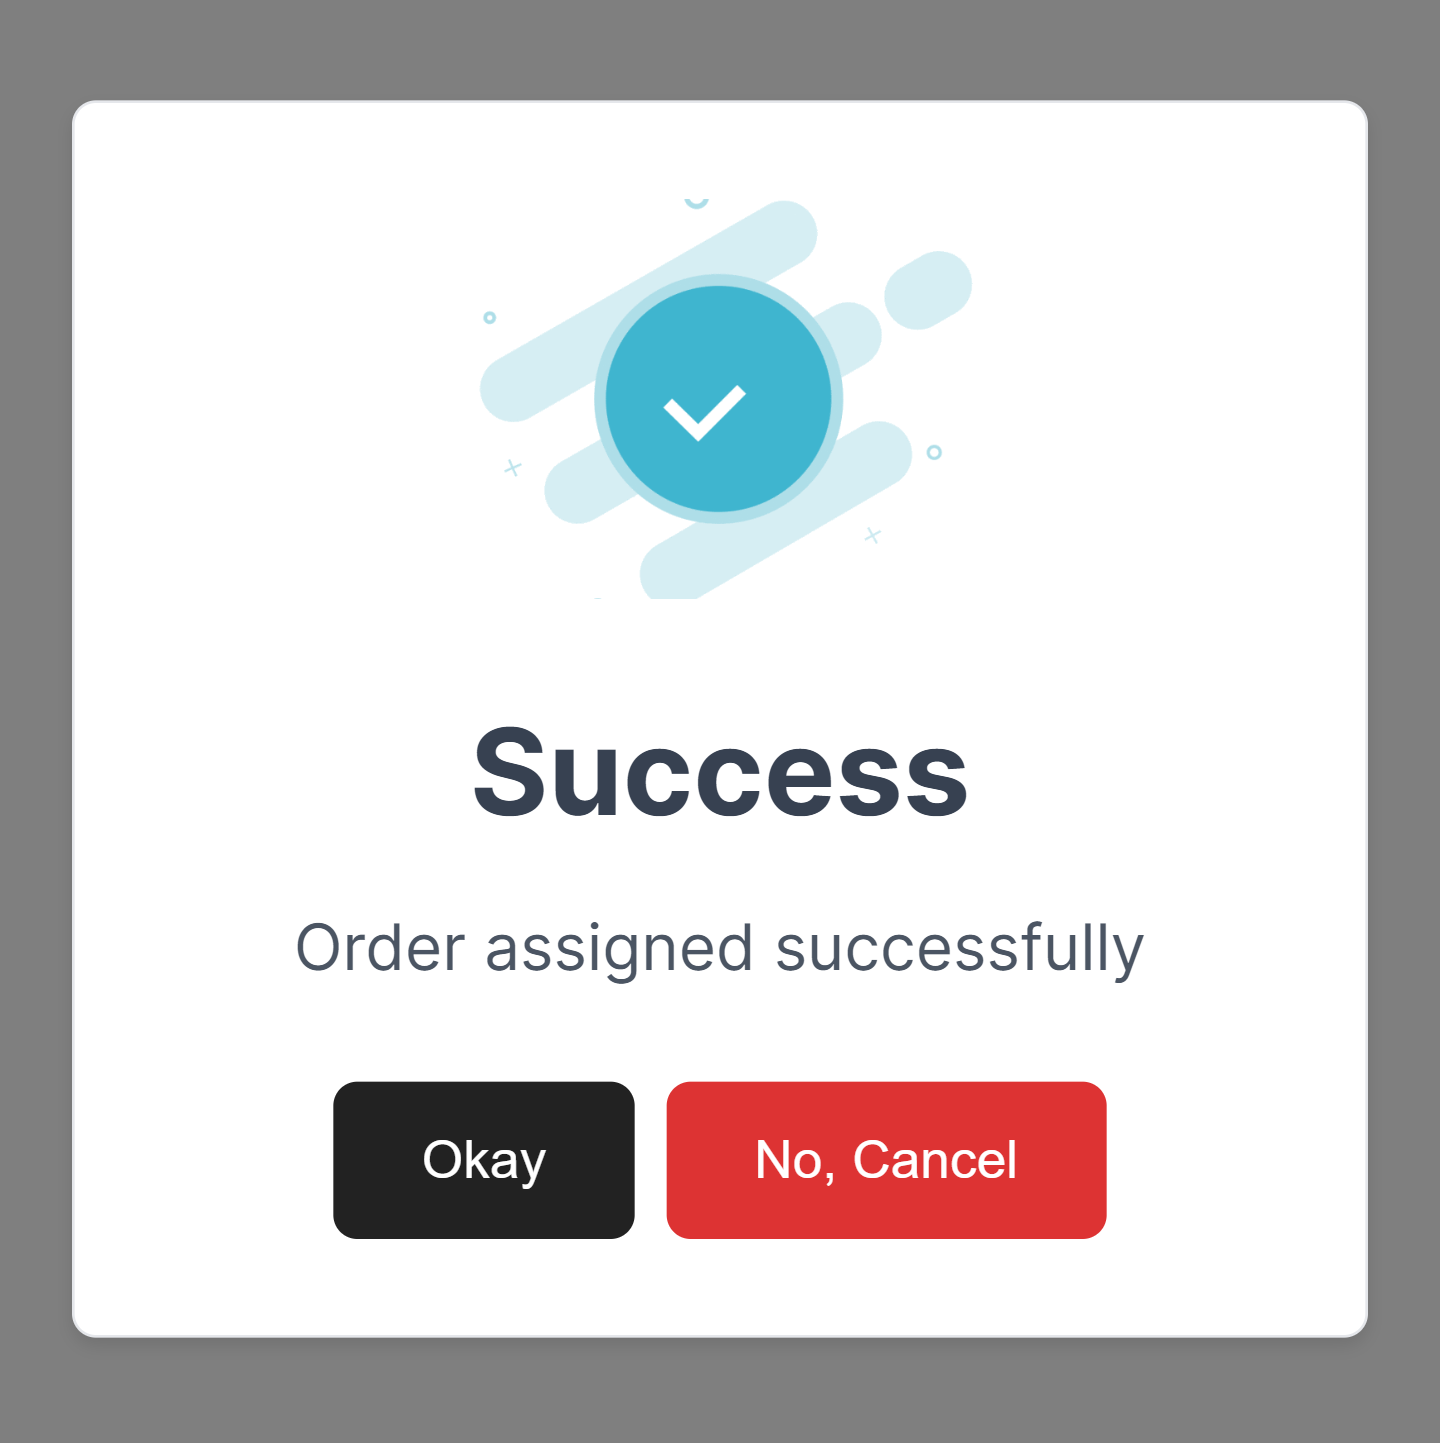
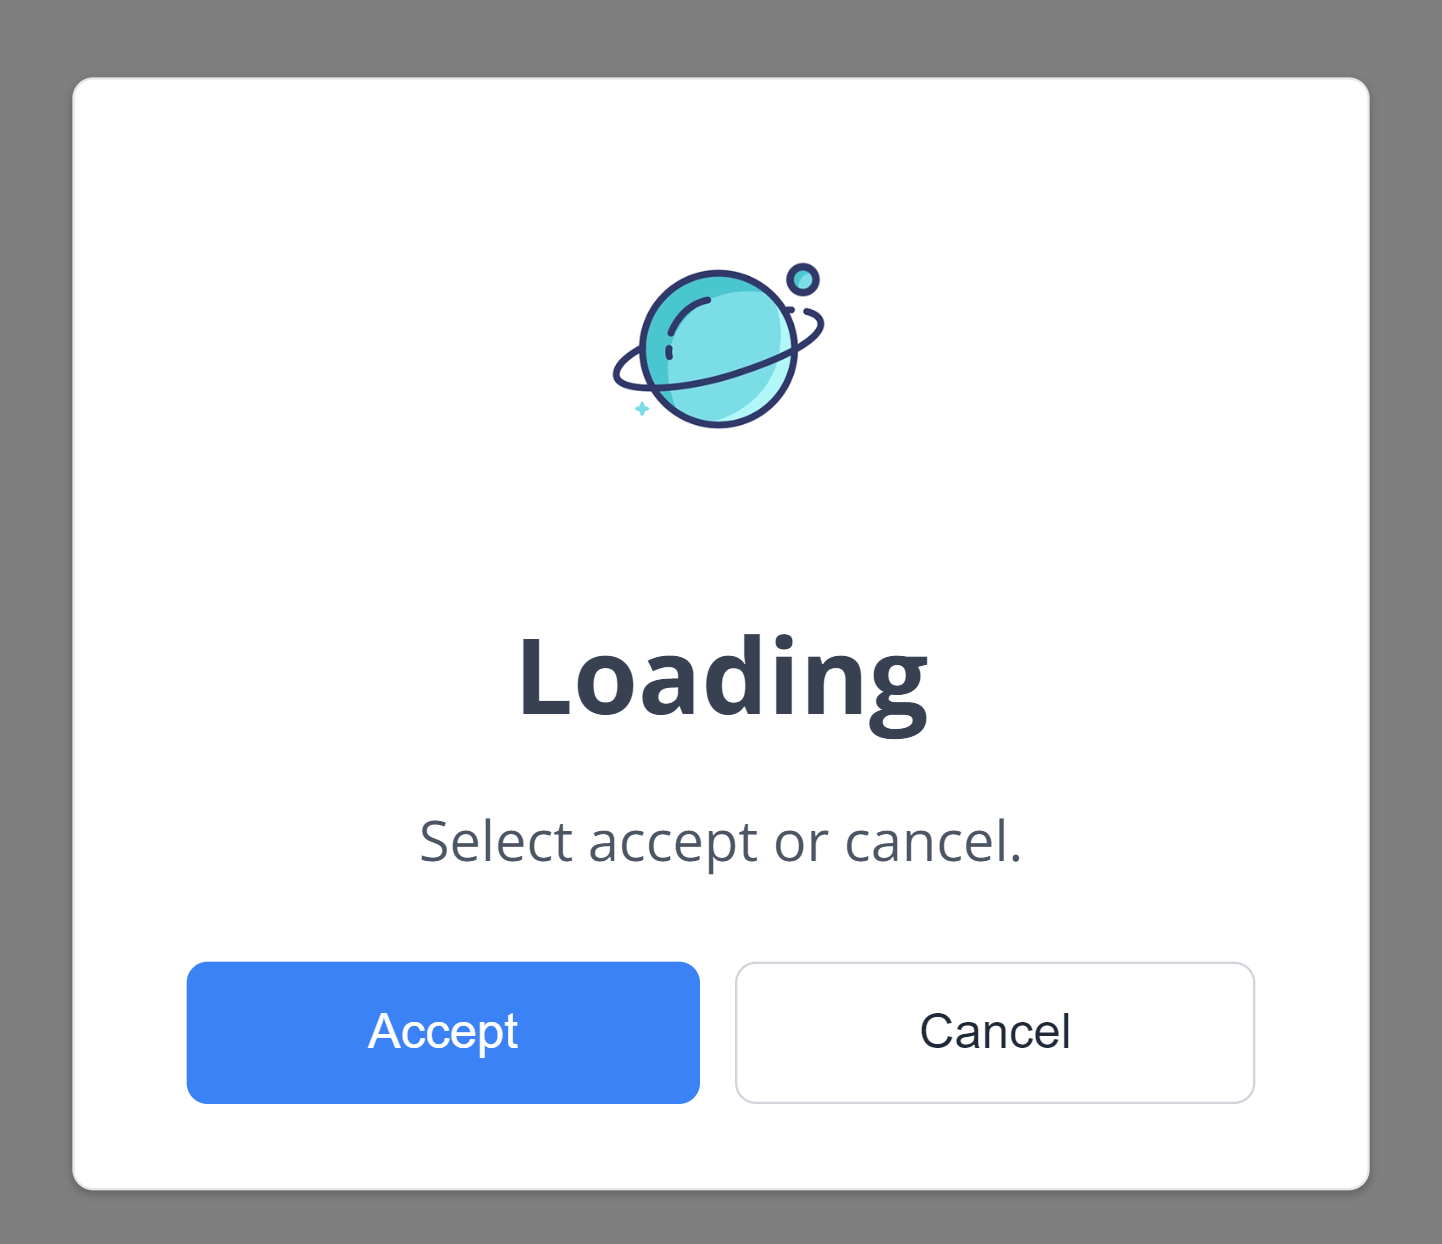
version 2.0.8

diff --git a/README.md b/README.md
@@ -47,18 +47,18 @@ alertMe('Alert', 'This is a basic alert.');
 
 ```
 alertMe({
-  title: 'Error!',
-  text: 'An error occurred.',
-  icon: 'error',
-  showCancelButton: true,
-  confirmButtonColor: '#d33',
-  cancelButtonColor: '#3085d6',
-  confirmButtonText: 'OK',
-  cancelButtonText: 'Cancel'
-});
+    title: 'Info',
+    text: "info alert box , icon : 'info'",
+    icon: 'info',
+    showCancelButton: true,
+    confirmButtonColor : "#222222",
+    cancelButtonColor : "#eeeeee",
+    confirmButtonText : "Confirm Please",
+    cancelButtonText : "nah",
+    });
 ```
 
-**Confirm Alert**, allowing users to take actions based on their choices:
+**Confirm or Cancel Alert**, allowing users to take actions based on their choices:
 
 ```
 alertMe({
